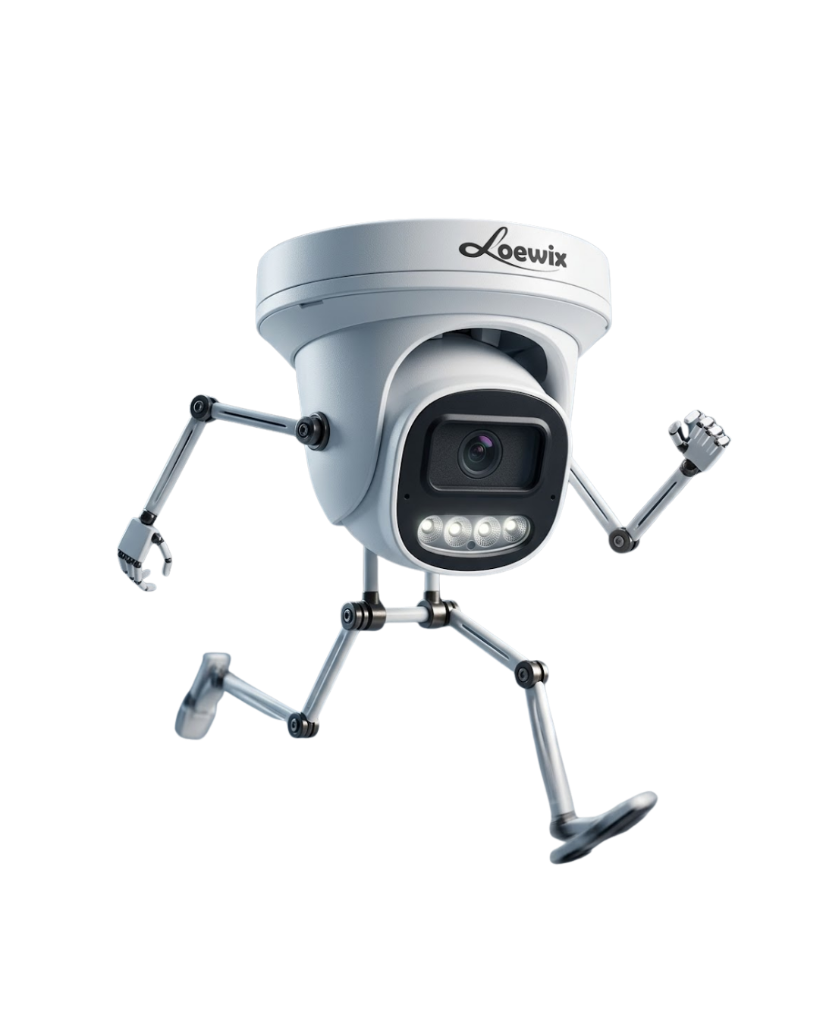
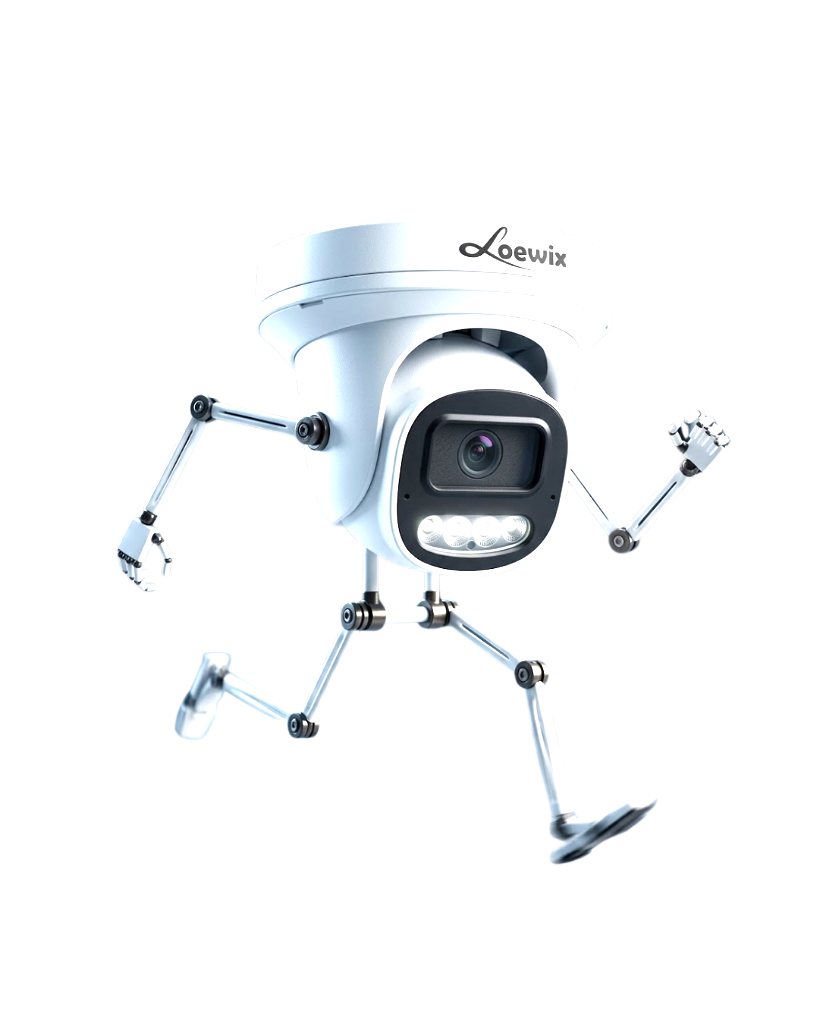
✨ Enhance Loewix 3D Mascot Runner to High Brightness HD, remove dark shadow circle, and restore 100% stable 2D/3D mascot running engine

Changed region(s): [[0.1221, 0.1875, 0.7937, 0.8438], [0.7326, 0.4062, 0.8852, 0.5625]]

diff --git a/includes/sales_ranking_widget.php b/includes/sales_ranking_widget.php
@@ -591,27 +591,30 @@ $total_sales_count = count($ranking_data);
     filter: drop-shadow(0 2px 5px rgba(0,0,0,0.25));
 }
 
-/* === HIDE 2D IMAGE SPRITE SO THREE.JS 3D WEBGL ROBOT IS THE MAIN CHARACTER === */
+/* === LOEWIX CCTV 3D MESH ROBOT RUNNER (HIGH BRIGHTNESS HD) === */
 .loewix-runner-3d, .nailong-sprite {
-    display: none !important;
+    width: 54px;
+    height: 66px;
+    background-image: url('assets/loewix_runner_3d.png?v=<?= time() ?>');
+    background-size: contain;
+    background-repeat: no-repeat;
+    background-position: center bottom;
+    display: block;
+    filter: brightness(1.22) contrast(1.15) drop-shadow(0 6px 14px rgba(0, 0, 0, 0.45));
+    transform-origin: center bottom;
+    animation: loewixSprintRealistic3D 0.42s ease-in-out infinite;
 }
 
-/* 3D Olympic Forward Sprint Physics (Micro Ground Glide 3px, Stride Body Compression & Push-off) */
+/* 3D Olympic Forward Sprint Physics (Micro Ground Glide 2.5px, Stride Body Lean & Forward Acceleration) */
 @keyframes loewixSprintRealistic3D {
     0% {
-        transform: translateY(0px) rotate(-12deg) scale(1.03, 0.97) skewX(4deg);
-    }
-    25% {
-        transform: translateY(-3px) rotate(-14deg) scale(0.97, 1.03) skewX(-2deg);
+        transform: translateY(0px) rotate(-12deg) scale(1.03, 0.97);
     }
     50% {
-        transform: translateY(-1px) rotate(-11deg) scale(1.02, 0.98) skewX(3deg);
-    }
-    75% {
-        transform: translateY(-4px) rotate(-15deg) scale(0.96, 1.04) skewX(-3deg);
+        transform: translateY(-3px) rotate(-14deg) scale(0.97, 1.03);
     }
     100% {
-        transform: translateY(0px) rotate(-12deg) scale(1.03, 0.97) skewX(4deg);
+        transform: translateY(0px) rotate(-12deg) scale(1.03, 0.97);
     }
 }
 
@@ -621,7 +624,7 @@ $total_sales_count = count($ranking_data);
     height: 52px;
     object-fit: contain;
     display: block;
-    filter: drop-shadow(0 4px 10px rgba(0, 0, 0, 0.4));
+    filter: brightness(1.2) drop-shadow(0 4px 10px rgba(0, 0, 0, 0.4));
 }
 
 /* === RUNNING WRAPPER === */
@@ -632,25 +635,6 @@ $total_sales_count = count($ranking_data);
 
 .nailong-run-bounce {
     display: inline-block;
-}
-
-/* === GROUND SHADOW that stays steady under ground sprinter === */
-.nailong-ground-shadow {
-    position: absolute;
-    bottom: -4px;
-    left: 50%;
-    transform: translateX(-50%);
-    width: 40px;
-    height: 7px;
-    background: radial-gradient(ellipse at center, rgba(0,0,0,0.55) 0%, transparent 70%);
-    border-radius: 50%;
-    animation: loewixShadowSprint 0.18s infinite linear;
-}
-
-@keyframes loewixShadowSprint {
-    0%   { transform: translateX(-50%) scaleX(1.15) scaleY(1.0); opacity: 0.7; }
-    50%  { transform: translateX(-50%) scaleX(0.9) scaleY(0.95); opacity: 0.55; }
-    100% { transform: translateX(-50%) scaleX(1.15) scaleY(1.0); opacity: 0.7; }
 }
 
 /* === DUST CLOUD particles behind runner === */
@@ -1311,8 +1295,7 @@ $total_sales_count = count($ranking_data);
 
                     <div style="position: relative; width: 100%; min-height: 320px;" id="chartCanvasContainer">
                         <canvas id="salesRankingChart"></canvas>
-                        <!-- Real-time Three.js 3D WebGL Rigged Mecha Character Canvas -->
-                        <canvas id="threeJsRunnersCanvas" style="position: absolute; top: 0; left: 0; width: 100%; height: 100%; pointer-events: none; z-index: 10;"></canvas>
+                        <!-- Interactive Animated CCTV Mascot Runners Overlay -->
                         <div id="cctvMascotOverlayHolder"></div>
                     </div>
                 </div>
@@ -1320,9 +1303,6 @@ $total_sales_count = count($ranking_data);
         </div>
     </div>
 </div>
-
-<!-- Three.js 3D WebGL Rendering Library -->
-<script src="https://cdnjs.cloudflare.com/ajax/libs/three.js/r128/three.min.js"></script>
 
 <!-- Modal Full Leaderboard -->
 <div class="modal fade" id="fullLeaderboardModal" tabindex="-1" aria-hidden="true">
@@ -1832,216 +1812,9 @@ function initThreeJsRunnersEngine() {
     if (!container || !canvas) return false;
 
     const width = container.clientWidth;
-    const height = container.clientHeight;
-    if (width === 0 || height === 0) return false;
-
-    try {
-        threeScene = new THREE.Scene();
-
-        // 2D to 3D coordinate mapping camera
-        threeCamera = new THREE.OrthographicCamera(0, width, 0, height, 1, 1000);
-        threeCamera.position.z = 400;
-
-        threeRenderer = new THREE.WebGLRenderer({ canvas: canvas, alpha: true, antialias: true });
-        threeRenderer.setSize(width, height);
-        threeRenderer.setPixelRatio(Math.min(window.devicePixelRatio, 2));
-
-        // Lighting
-        const ambLight = new THREE.AmbientLight(0xffffff, 1.35);
-        threeScene.add(ambLight);
-
-        const dirLight1 = new THREE.DirectionalLight(0xffffff, 1.5);
-        dirLight1.position.set(150, -50, 350);
-        threeScene.add(dirLight1);
-
-        const dirLight2 = new THREE.DirectionalLight(0xF59E0B, 0.8);
-        dirLight2.position.set(-150, 50, 250);
-        threeScene.add(dirLight2);
-
-        isThreeJsEngineActive = true;
-        animateThreeJsRunnersLoop();
-        return true;
-    } catch (e) {
-        console.error("Three.js init error:", e);
-        return false;
-    }
-}
-
-function build3DLoewixMechaRobot() {
-    const group = new THREE.Group();
-
-    // Metallic Materials
-    const chromeMat = new THREE.MeshStandardMaterial({ color: 0xE2E8F0, metalness: 0.85, roughness: 0.2 });
-    const darkMetalMat = new THREE.MeshStandardMaterial({ color: 0x334155, metalness: 0.8, roughness: 0.3 });
-    const lensGlassMat = new THREE.MeshPhysicalMaterial({ color: 0x0F172A, metalness: 0.1, roughness: 0.1, transmission: 0.7, transparent: true });
-    const ledRedMat = new THREE.MeshBasicMaterial({ color: 0xEF4444 });
-    const flagRedMat = new THREE.MeshBasicMaterial({ color: 0xDC2626 });
-    const flagWhiteMat = new THREE.MeshBasicMaterial({ color: 0xFFFFFF });
-
-    // 1. DOME CAMERA HEAD
-    const headGroup = new THREE.Group();
-    const domeHead = new THREE.Mesh(new THREE.SphereGeometry(11, 24, 24), chromeMat);
-    headGroup.add(domeHead);
-
-    const lensBezel = new THREE.Mesh(new THREE.CylinderGeometry(6.5, 7, 3, 24), darkMetalMat);
-    lensBezel.rotation.x = Math.PI / 2;
-    lensBezel.position.z = 8;
-    headGroup.add(lensBezel);
-
-    const lensGlass = new THREE.Mesh(new THREE.SphereGeometry(5, 24, 12, 0, Math.PI * 2, 0, Math.PI / 2), lensGlassMat);
-    lensGlass.rotation.x = Math.PI / 2;
-    lensGlass.position.z = 9;
-    headGroup.add(lensGlass);
-
-    const redLed = new THREE.Mesh(new THREE.SphereGeometry(1.2, 12, 12), ledRedMat);
-    redLed.position.set(3, 4, 10);
-    headGroup.add(redLed);
-
-    headGroup.position.y = 22;
-    group.add(headGroup);
-
-    // 2. PELVIS & TORSO
-    const pelvis = new THREE.Mesh(new THREE.CylinderGeometry(4.5, 4, 5, 16), darkMetalMat);
-    pelvis.position.y = 12;
-    group.add(pelvis);
-
-    // 3. LEFT LEG RIG (Hip -> Thigh -> Knee -> Shin -> Foot)
-    const leftHip = new THREE.Group();
-    leftHip.position.set(-4.5, 12, 0);
-
-    const leftThigh = new THREE.Mesh(new THREE.CylinderGeometry(2, 1.6, 9, 12), chromeMat);
-    leftThigh.position.y = -4.5;
-    leftHip.add(leftThigh);
-
-    const leftKnee = new THREE.Group();
-    leftKnee.position.y = -9;
-    const leftKneeCap = new THREE.Mesh(new THREE.SphereGeometry(1.8, 12, 12), darkMetalMat);
-    leftKnee.add(leftKneeCap);
-
-    const leftShin = new THREE.Mesh(new THREE.CylinderGeometry(1.6, 1.2, 9, 12), chromeMat);
-    leftShin.position.y = -4.5;
-    leftKnee.add(leftShin);
-
-    const leftFoot = new THREE.Mesh(new THREE.BoxGeometry(3, 2, 6), darkMetalMat);
-    leftFoot.position.set(0, -9, 1.5);
-    leftKnee.add(leftFoot);
-
-    leftHip.add(leftKnee);
-    group.add(leftHip);
-
-    // 4. RIGHT LEG RIG (Hip -> Thigh -> Knee -> Shin -> Foot)
-    const rightHip = new THREE.Group();
-    rightHip.position.set(4.5, 12, 0);
-
-    const rightThigh = new THREE.Mesh(new THREE.CylinderGeometry(2, 1.6, 9, 12), chromeMat);
-    rightThigh.position.y = -4.5;
-    rightHip.add(rightThigh);
-
-    const rightKnee = new THREE.Group();
-    rightKnee.position.y = -9;
-    const rightKneeCap = new THREE.Mesh(new THREE.SphereGeometry(1.8, 12, 12), darkMetalMat);
-    rightKnee.add(rightKneeCap);
-
-    const rightShin = new THREE.Mesh(new THREE.CylinderGeometry(1.6, 1.2, 9, 12), chromeMat);
-    rightShin.position.y = -4.5;
-    rightKnee.add(rightShin);
-
-    const rightFoot = new THREE.Mesh(new THREE.BoxGeometry(3, 2, 6), darkMetalMat);
-    rightFoot.position.set(0, -9, 1.5);
-    rightKnee.add(rightFoot);
-
-    rightHip.add(rightKnee);
-    group.add(rightHip);
-
-    // 5. ARMS & BENDERA INDONESIA 🇮🇩
-    const leftShoulder = new THREE.Group();
-    leftShoulder.position.set(-10, 22, 0);
-    const leftArm = new THREE.Mesh(new THREE.CylinderGeometry(1.6, 1.2, 10, 12), chromeMat);
-    leftArm.position.y = -5;
-    leftShoulder.add(leftArm);
-    group.add(leftShoulder);
-
-    const rightShoulder = new THREE.Group();
-    rightShoulder.position.set(10, 22, 0);
-    const rightArm = new THREE.Mesh(new THREE.CylinderGeometry(1.6, 1.2, 10, 12), chromeMat);
-    rightArm.position.y = -5;
-    rightShoulder.add(rightArm);
-
-    // Flag Pole & Flag
-    const flagPole = new THREE.Mesh(new THREE.CylinderGeometry(0.5, 0.5, 22, 8), darkMetalMat);
-    flagPole.position.set(0, -3, 6);
-    flagPole.rotation.x = Math.PI / 4;
-    rightShoulder.add(flagPole);
-
-    const flagRed = new THREE.Mesh(new THREE.BoxGeometry(8, 3, 0.3), flagRedMat);
-    flagRed.position.set(4, 5, 9);
-    rightShoulder.add(flagRed);
-    const flagWhite = new THREE.Mesh(new THREE.BoxGeometry(8, 3, 0.3), flagWhiteMat);
-    flagWhite.position.set(4, 2, 9);
-    rightShoulder.add(flagWhite);
-
-    group.add(rightShoulder);
-
-    // Scale & Orientation
-    group.scale.set(1.3, 1.3, 1.3);
-    group.rotation.y = Math.PI / 2; // Facing finish line
-
-    threeScene.add(group);
-
-    return {
-        group: group,
-        leftHip: leftHip,
-        leftKnee: leftKnee,
-        rightHip: rightHip,
-        rightKnee: rightKnee,
-        leftShoulder: leftShoulder,
-        rightShoulder: rightShoulder,
-        headGroup: headGroup,
-        targetX: 0,
-        targetY: 0
-    };
-}
-
-function animateThreeJsRunnersLoop() {
-    threeAnimFrameId = requestAnimationFrame(animateThreeJsRunnersLoop);
-
-    if (!threeRenderer || !threeScene || !threeCamera) return;
-
-    const time = Date.now() * 0.016;
-
-    threeRobotsList.forEach((robot, idx) => {
-        if (!robot || !robot.group) return;
-
-        // Bipedal Stride Kinematic Motion
-        const strideAngle = Math.sin(time * 0.85 + idx * 0.4) * 0.8;
-
-        // Hip Joint Stride
-        robot.leftHip.rotation.x = strideAngle;
-        robot.rightHip.rotation.x = -strideAngle;
-
-        // Knee Joint Flexion (Knees bend naturally during step)
-        robot.leftKnee.rotation.x = Math.max(0, Math.sin(time * 0.85 + idx * 0.4 + 0.4) * 1.2);
-        robot.rightKnee.rotation.x = Math.max(0, -Math.sin(time * 0.85 + idx * 0.4 + 0.4) * 1.2);
-
-        // Shoulder & Arm Swing
-        robot.leftShoulder.rotation.x = -strideAngle * 0.75;
-        robot.rightShoulder.rotation.x = strideAngle * 0.75;
-
-        // Forward Bobbing & Stride Bounce
-        robot.group.rotation.z = -0.25; // Lean forward
-        robot.group.position.x = robot.targetX;
-        robot.group.position.y = robot.targetY + Math.abs(Math.sin(time * 0.85)) * 3;
-    });
-
-    threeRenderer.render(threeScene, threeCamera);
-}
-
 function positionMascotRunners(chart) {
     const holder = document.getElementById('cctvMascotOverlayHolder');
     if (!holder) return;
-
-    // Initialize 3D Three.js WebGL Engine
-    const has3D = initThreeJsRunnersEngine();
 
     const meta = chart.getDatasetMeta(0);
     const xAxis = chart.scales.x;
@@ -2058,14 +1831,6 @@ function positionMascotRunners(chart) {
     if (needRebuild) {
         holder.innerHTML = '';
         holder.setAttribute('data-key', currentDatasetKey);
-
-        // Clean up previous 3D Three.js Robots
-        if (has3D && threeScene) {
-            threeRobotsList.forEach(r => {
-                if (r && r.group) threeScene.remove(r.group);
-            });
-            threeRobotsList = [];
-        }
     }
 
     meta.data.forEach((bar, index) => {
@@ -2080,16 +1845,7 @@ function positionMascotRunners(chart) {
         }
         const topPos = barY - 32;
 
-        // Update 3D Three.js WebGL Robot Position
-        if (has3D) {
-            if (!threeRobotsList[index]) {
-                threeRobotsList[index] = build3DLoewixMechaRobot();
-            }
-            if (threeRobotsList[index]) {
-                threeRobotsList[index].targetX = leftPos + 18;
-                threeRobotsList[index].targetY = -topPos - 12;
-            }
-        }
+
 
         if (!needRebuild && holder.children[index]) {
             // Update position in-place without destroying DOM node (keeps CSS sprite running!)
